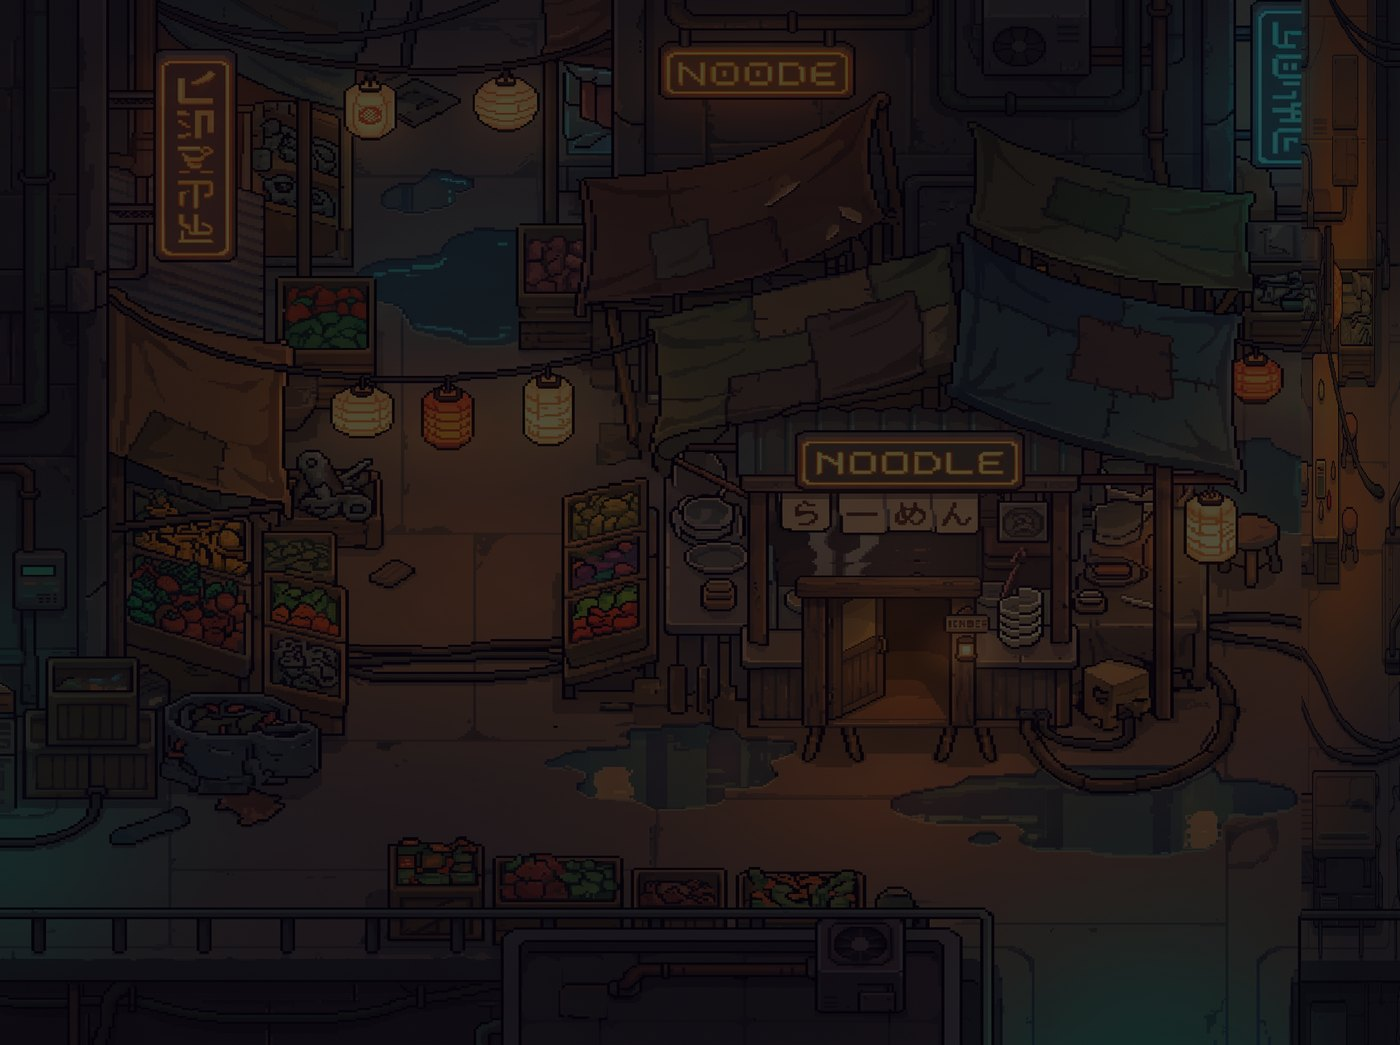
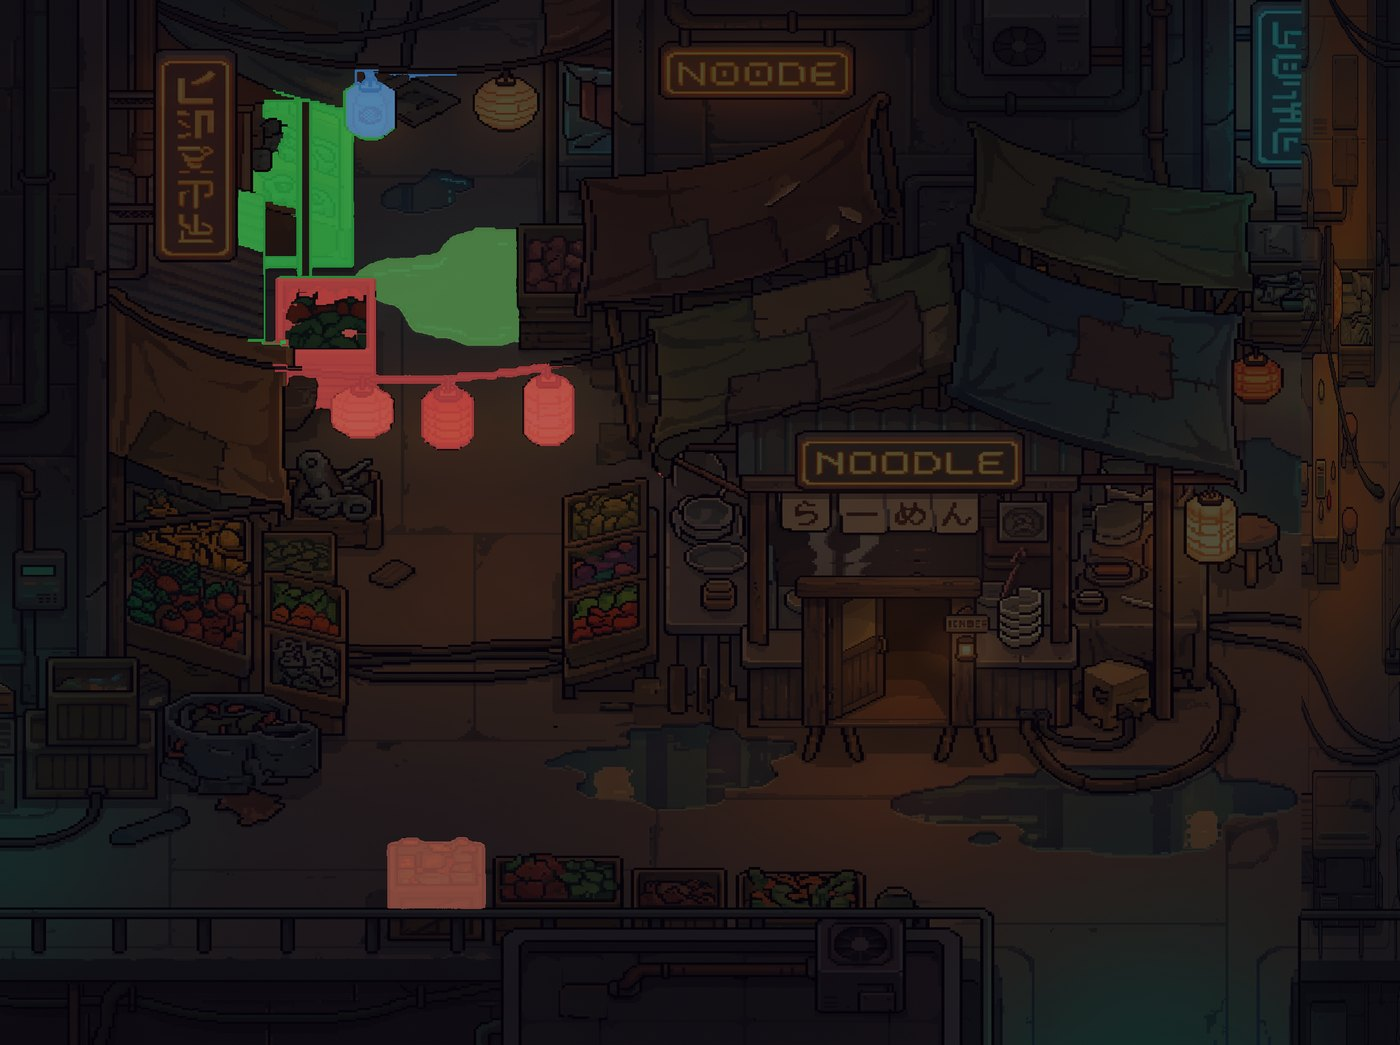
plate-green key exclusion: probe yield 15/36 -> 33/36

Changed region(s): [[0.1536, 0.0612, 0.43, 0.4287], [0.2764, 0.7962, 0.3686, 0.888]]

diff --git a/tools/art-pipeline/occprobe3_iter.py b/tools/art-pipeline/occprobe3_iter.py
@@ -100,7 +100,10 @@ def _extract(resp, ma, crop, mx, my, box, origin, pos):
         gen = Image.open(io.BytesIO(p.inline_data.data)).convert('RGB') \
                    .resize((o2.CROP, o2.CROP), Image.LANCZOS)
         g = np.asarray(gen).astype(np.int16)
-        keyed = key_mask(g)
+        # correct-by-construction: anything already green in the PLATE
+        # (produce, plants) can never be character evidence
+        plate_green = key_mask(np.asarray(crop).astype(np.int16))
+        keyed = key_mask(g) & ~plate_green
         diff = o2.blur_diff(ma, g)
         bbox = np.zeros((o2.CROP, o2.CROP), bool)
         bbox[by0:by1, bx0:bx1] = True

diff --git a/tools/art-pipeline/STATUS.md b/tools/art-pipeline/STATUS.md
@@ -1389,3 +1389,8 @@ Model pinning skipped: Vertex exposes no dated alias for gemini-3-pro-image.
   plants) fall inside KEY_R=100 -> keyed as "character" outside bbox -> noise
   gate rejections (yield 15/36). Fix queued (correct-by-construction): mask
   out pixels already green in the PLATE from the key, not radius tuning.
+
+### Run 30b: plate-green exclusion (Ivan: "go for it")
+- keyed &= ~key_mask(plate crop): scene greens can never be char evidence.
+  Yield 15/36 -> 33/36 (91.7%). Iter 4 verdicts on parts: 6 ysort, 1 overhead,
+  5 contradiction, 23 no-ev; per-iteration change log regenerated.
